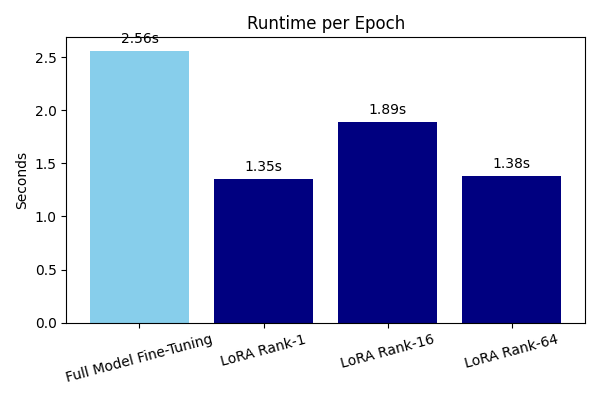
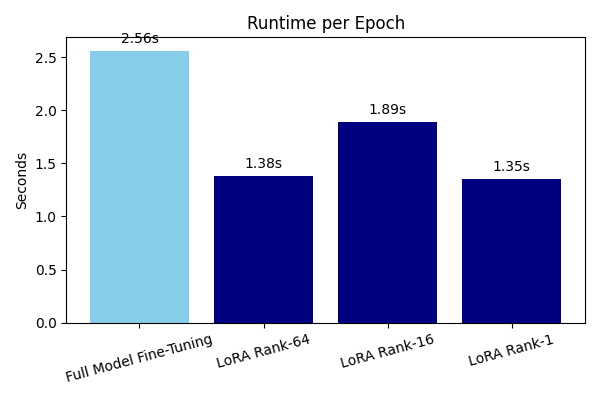
feat: update plot

diff --git a/plot/plot.py b/plot/plot.py
@@ -1,9 +1,9 @@
 import matplotlib.pyplot as plt
 
 # Data
-methods = ['Full Model Fine-Tuning', 'LoRA Rank-1', 'LoRA Rank-16', 'LoRA Rank-64']
-runtime = [2.56, 1.35, 1.89, 1.38]  # in seconds
-memory = [20.26, 3.50, 3.54, 3.68]  # in GB
+methods = ['Full Model Fine-Tuning', 'LoRA Rank-64', 'LoRA Rank-16', 'LoRA Rank-1']
+runtime = [2.56, 1.38, 1.89, 1.35]  # in seconds
+memory = [20.26, 3.68, 3.54, 3.50]  # in GB
 
 runtime_colors = ['skyblue', 'navy', 'navy', 'navy']
 memory_colors = ['skyblue', 'navy', 'navy', 'navy']
@@ -29,7 +29,7 @@ plt.ylabel('Memory (GB)')
 plt.xticks(rotation=15)
 for bar in bars:
     height = bar.get_height()
-    plt.text(bar.get_x() + bar.get_width()/2., height + 0.1, f'{height}GB', ha='center', va='bottom')
+    plt.text(bar.get_x() + bar.get_width()/2., height + 0.1, f'{height:.2f}GB', ha='center', va='bottom')
 plt.tight_layout()
 plt.savefig("peak_memory_usage.png")
 plt.show()
